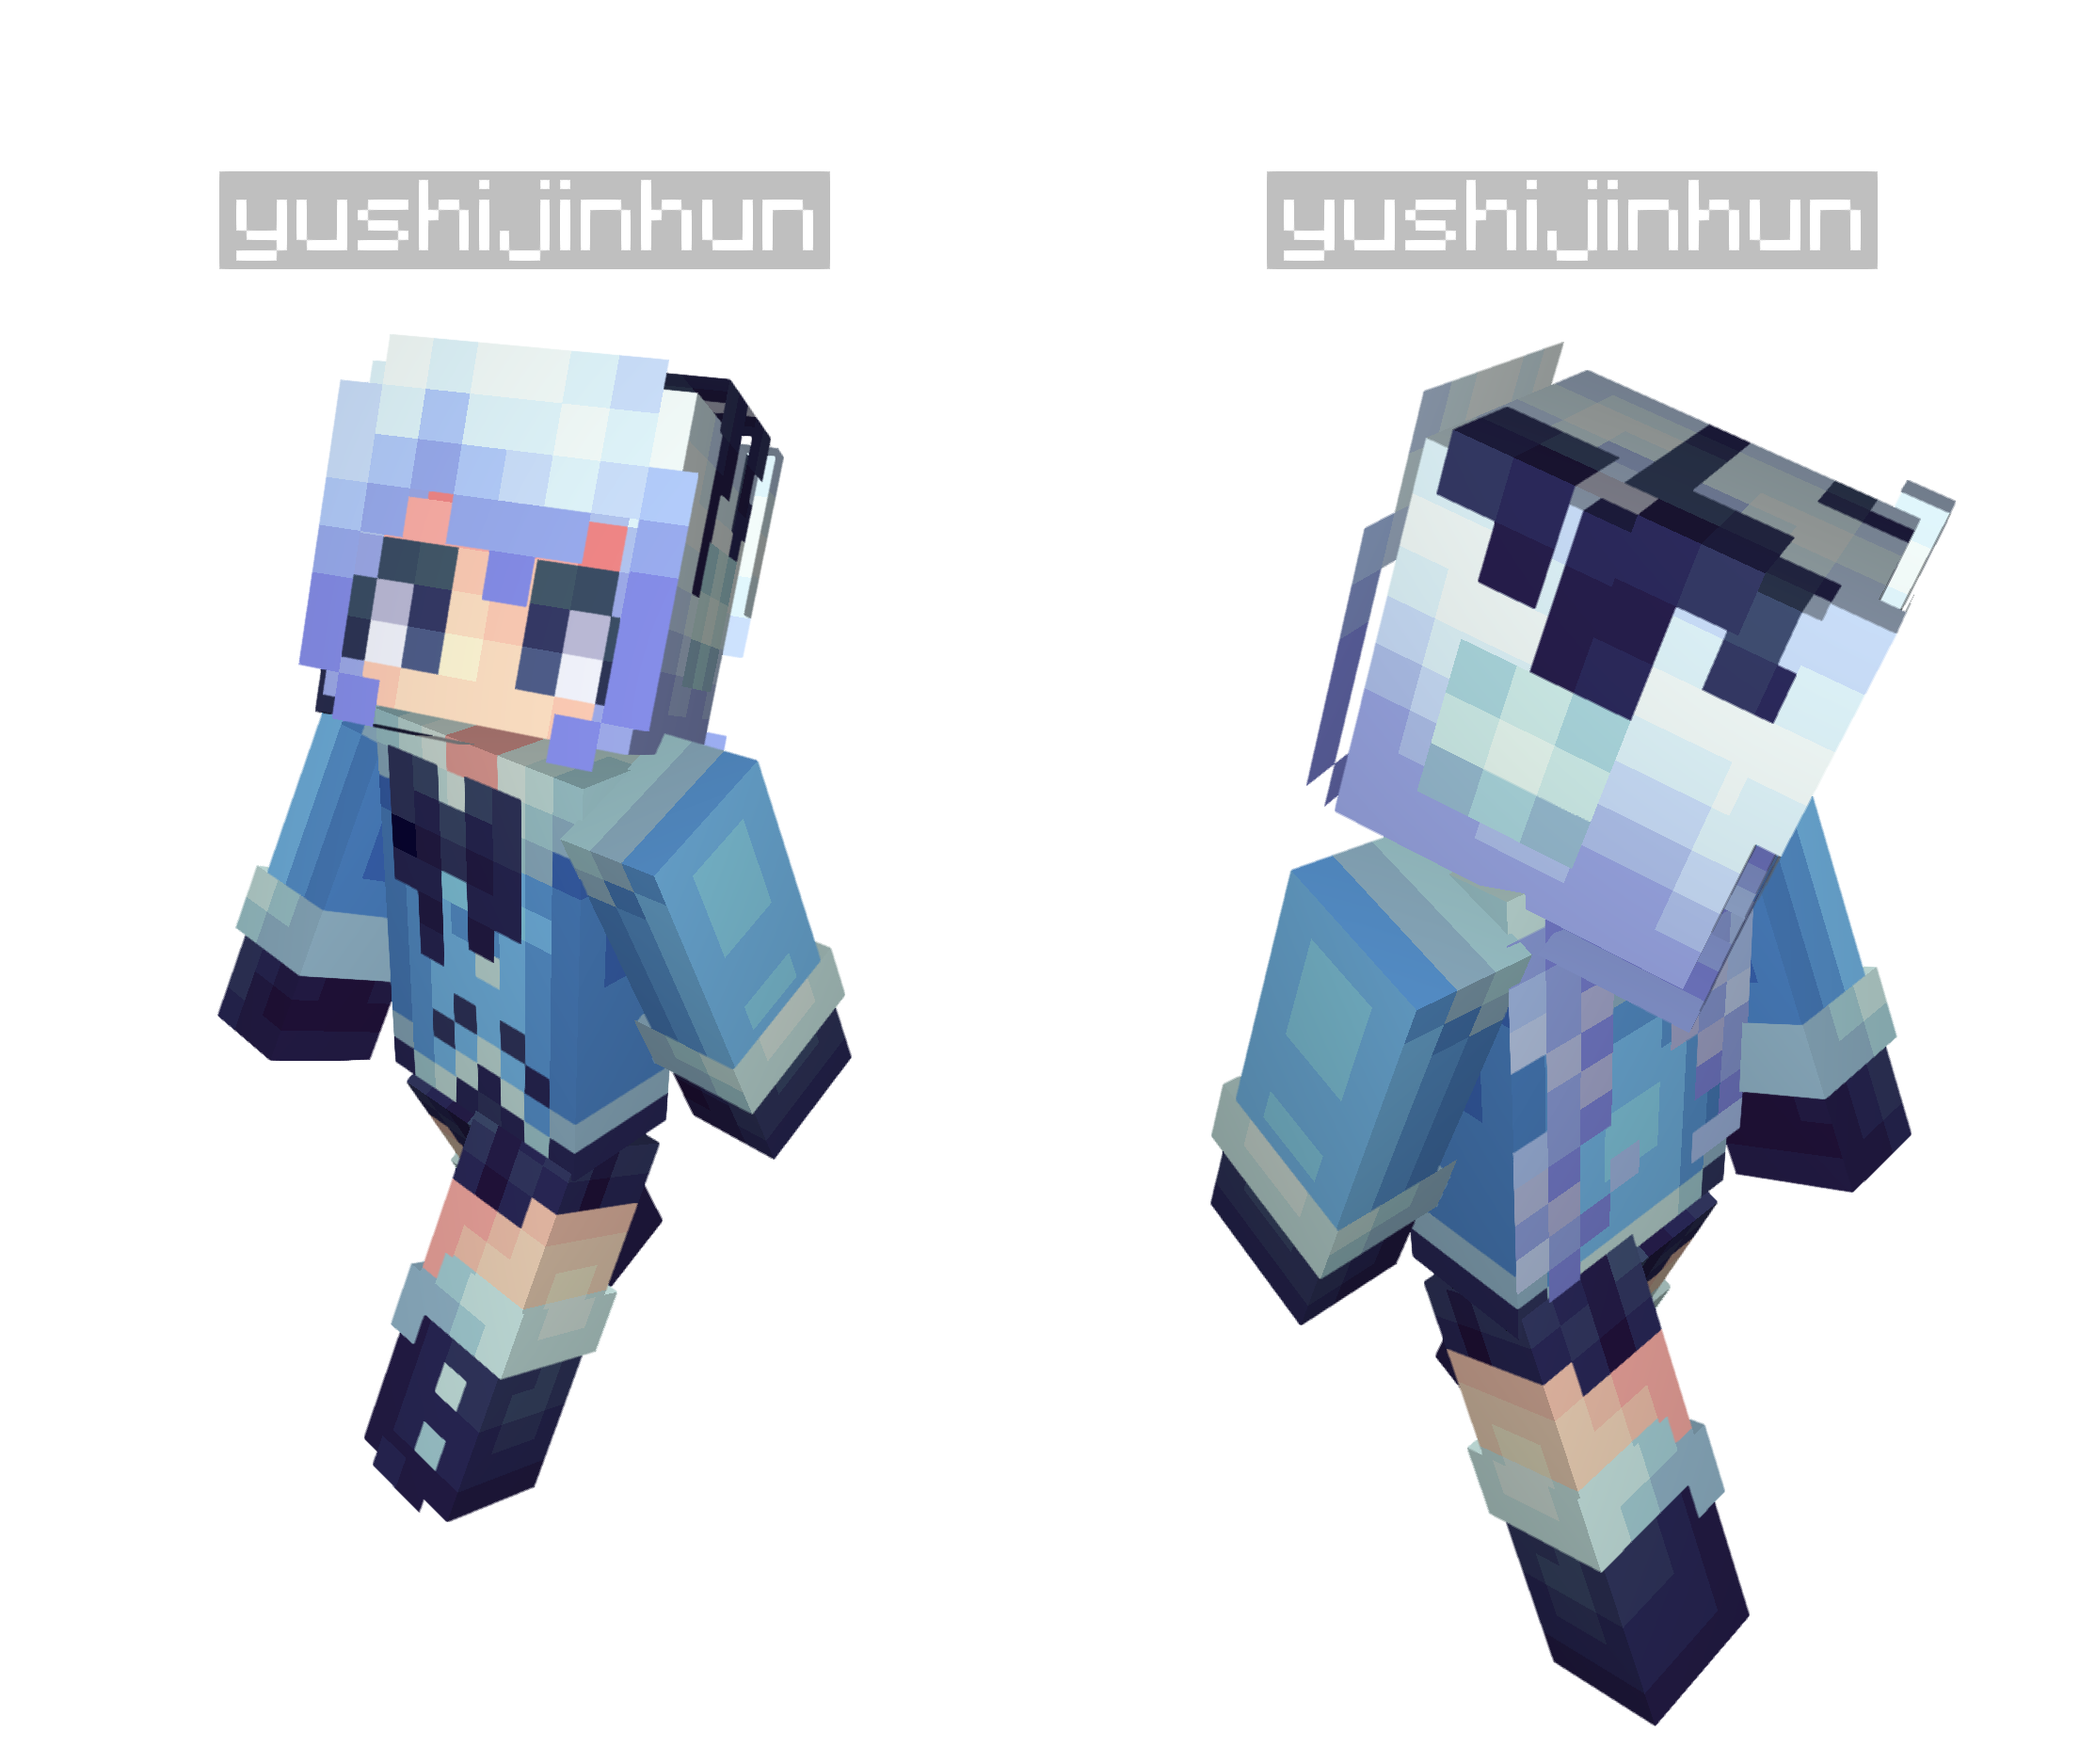
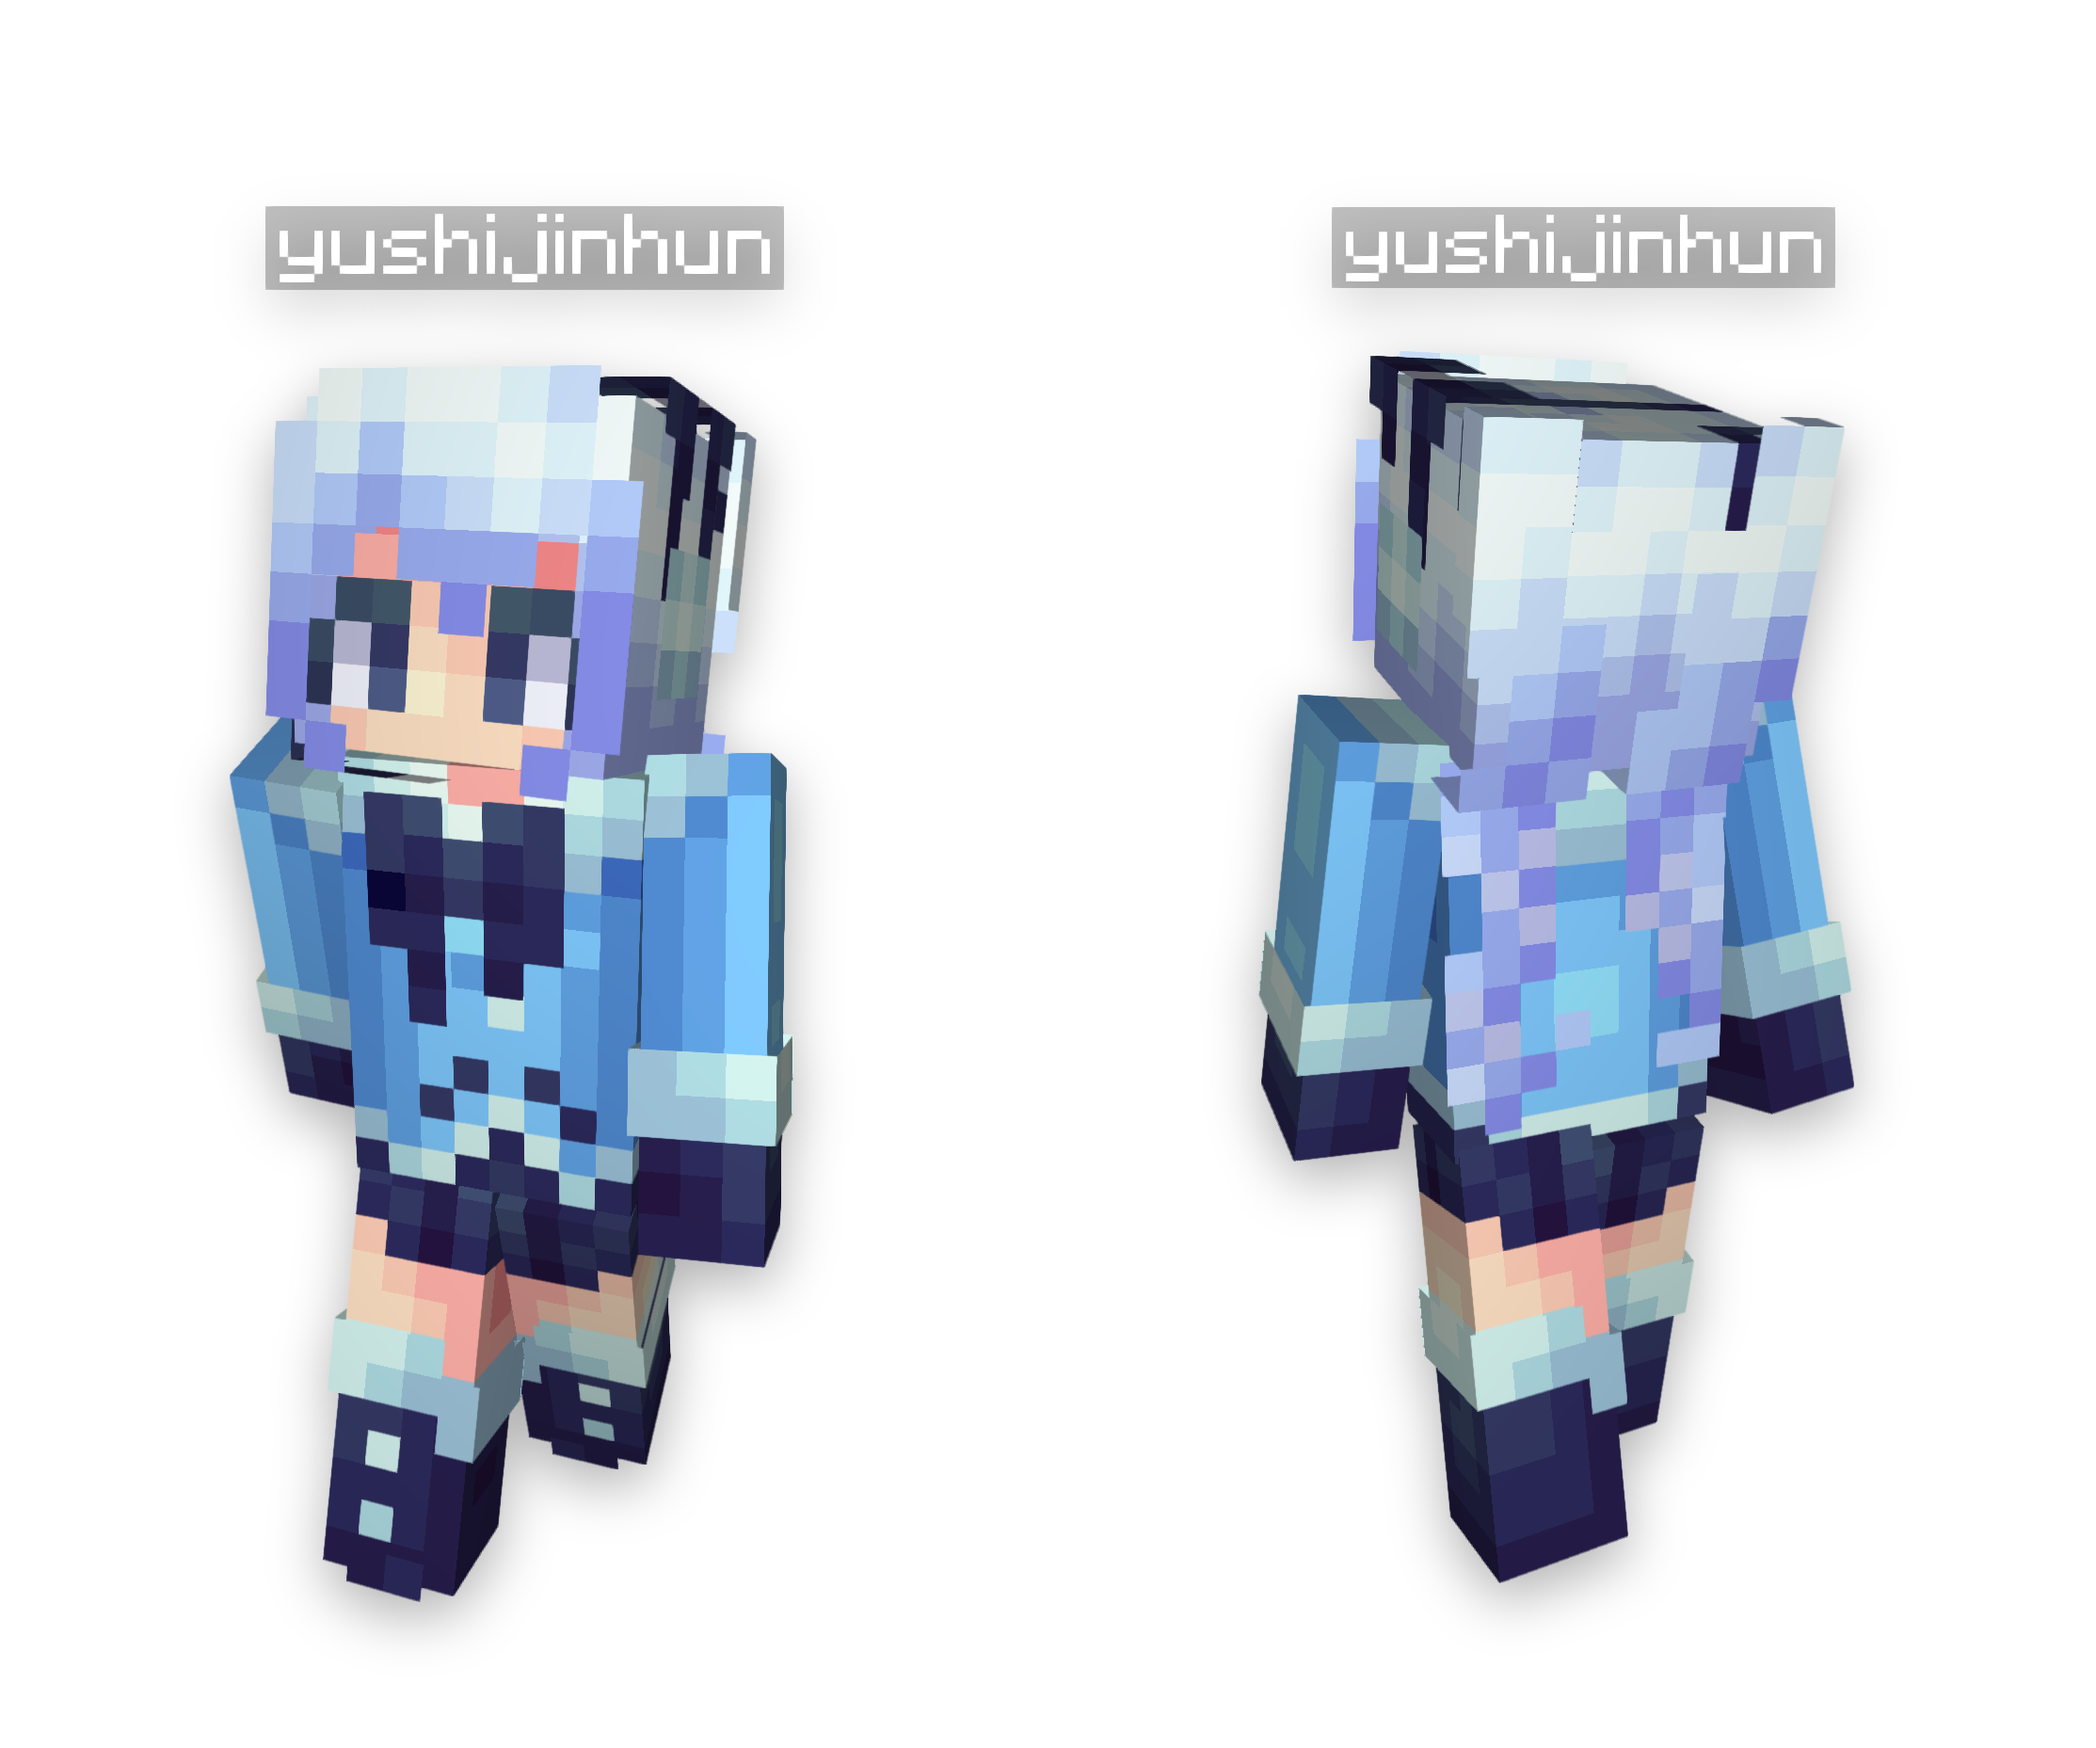
Update README

diff --git a/README.md b/README.md
@@ -10,6 +10,8 @@ GET http://<your_server>:57680/skinview3d/image/both
     ?skinUrl=<your_skin_url>
     &capeUrl=<your_cape_url>
     &nameTag=<your_player_name>
+    &definition=1.5
+    &transparent=false
 ```
 
 You will get:
@@ -19,6 +21,18 @@ You will get:
 Yes, this app depends on [`bs-community/skinview3d`](https://github.com/bs-community/skinview3d), and [`yushijinhun`](https://github.com/yushijinhun) is the main maintainer of the `skinview3d` project.
 
 Thanks to `yushijinhun` for guiding me during the development of this app.
+
+# Params
+
+- `definition`  
+    A float, default: `1.5`  
+
+    `0.8 <= definition <= 3.0`. The higher the value, the clearer the image generated, the higher the resolution and the larger the data size. And vice versa.
+
+- `transparent`
+    A boolean, default: `false`  
+
+    When the value is `true`, the background of the generated image will be transparent.
 
 # Deploy
 Check out the **PRETTY** & **HARMLESS** `docker-compose.yml`!  
